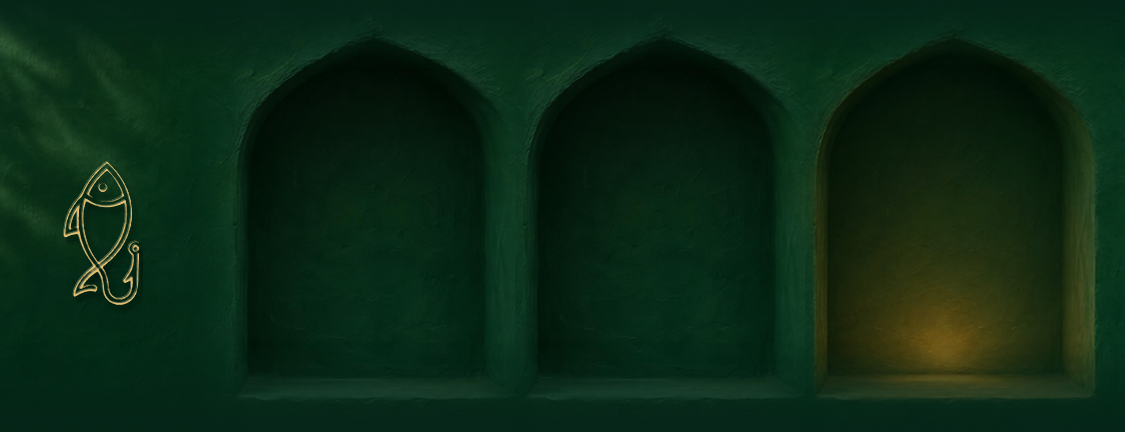
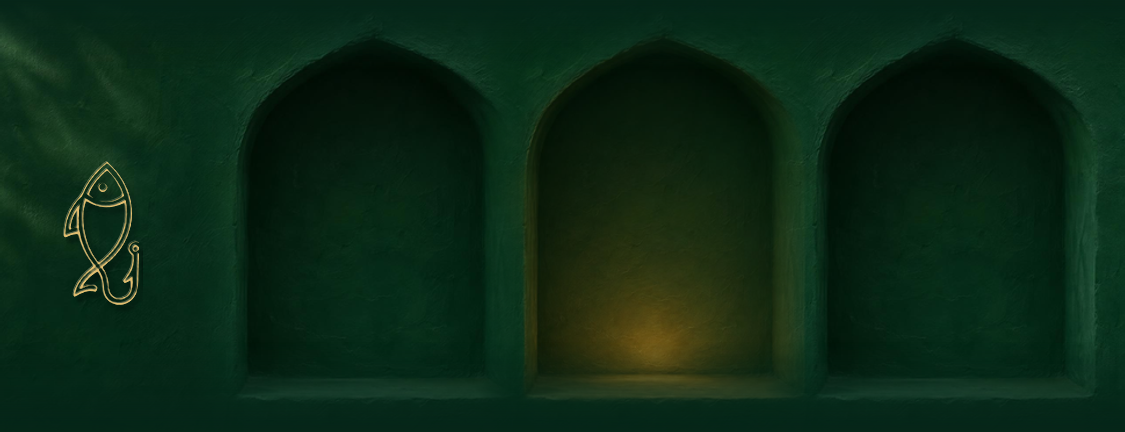
Wallet card: the lamp and the gift's photo sit in the middle window

Changed region(s): [[0.4667, 0.5116, 0.9956, 0.9329]]

diff --git a/web/tests/lamp.test.ts b/web/tests/lamp.test.ts
@@ -43,10 +43,10 @@ describe("how bright the lamp is", () => {
 });
 
 describe("the Wallet card's picture at each level (Al Roshinah)", () => {
-  // The lamp sits low in the niche, on the right of the picture: how warm that spot is (red above blue) is the light.
+  // The lamp sits low in the niche, in the middle window of the picture: how warm that spot is (red above blue) is the light.
   const warmth = (file: Buffer) => {
     const png = PNG.sync.read(file);
-    const x0 = Math.round(png.width * 0.77), x1 = Math.round(png.width * 0.82), y0 = Math.round(png.height * 0.7), y1 = Math.round(png.height * 0.8);
+    const x0 = Math.round(png.width * 0.51), x1 = Math.round(png.width * 0.56), y0 = Math.round(png.height * 0.7), y1 = Math.round(png.height * 0.8);
     let sum = 0, n = 0;
     for (let y = y0; y < y1; y++) for (let x = x0; x < x1; x++) { const i = (y * png.width + x) * 4; sum += png.data[i] - png.data[i + 2]; n++; }
     return sum / n;

diff --git a/web/tests/giftPhoto.test.ts b/web/tests/giftPhoto.test.ts
@@ -34,10 +34,11 @@ beforeEach(() => { forgetGiftStrips(); process.env.SUPABASE_URL = STORE; });
 afterEach(() => vi.unstubAllGlobals());
 
 describe("where the niche is", () => {
-  it("is read for Al Roshinah and sits inside the strip, on its right", () => {
+  it("is read for Al Roshinah and sits inside the strip, in its middle", () => {
     const n = nicheOf("roshinah")!;
-    expect(n).toEqual({ l: 838, r: 1073, floor: 372, spring: 165, tip: 46 });
-    expect(n.l).toBeGreaterThan(1125 / 2);
+    expect(n).toEqual({ l: 548, r: 783, floor: 372, spring: 165, tip: 46 });
+    expect(n.l).toBeLessThan(1125 / 2);
+    expect(n.r).toBeGreaterThan(1125 / 2);
   });
 
   it("is nothing for a venue without one, and for a name that is not a venue's", () => {
